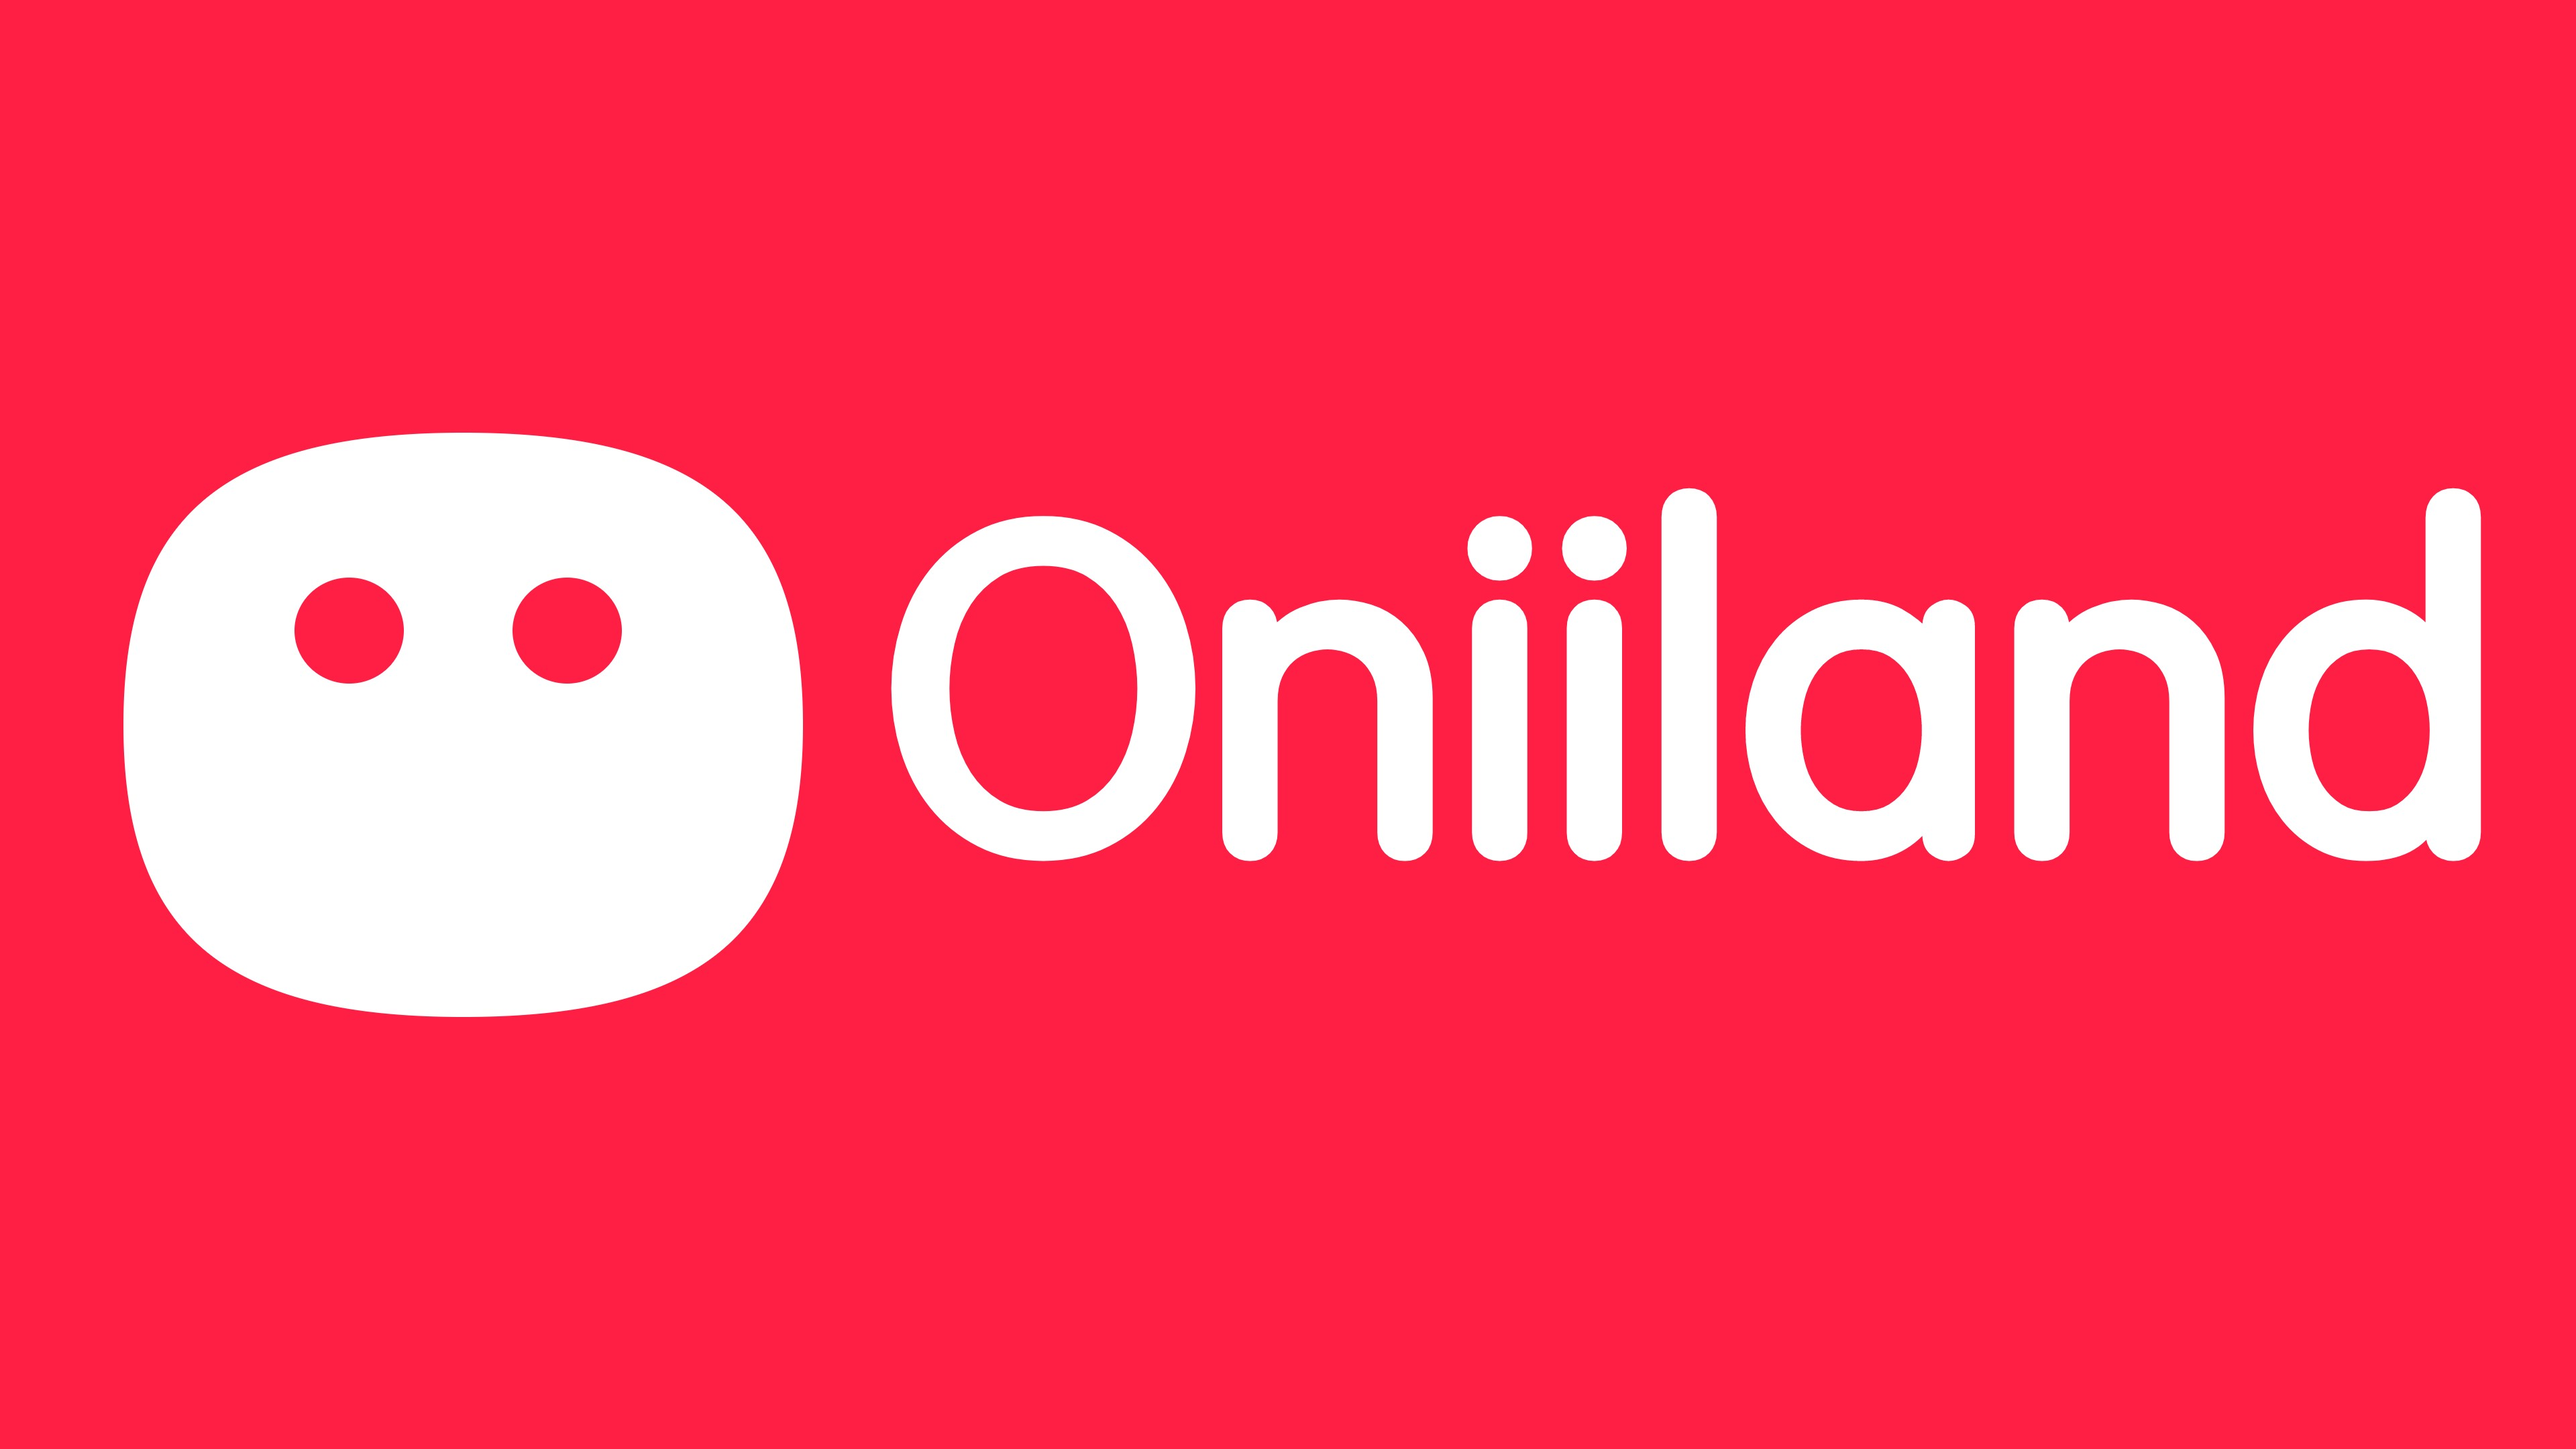
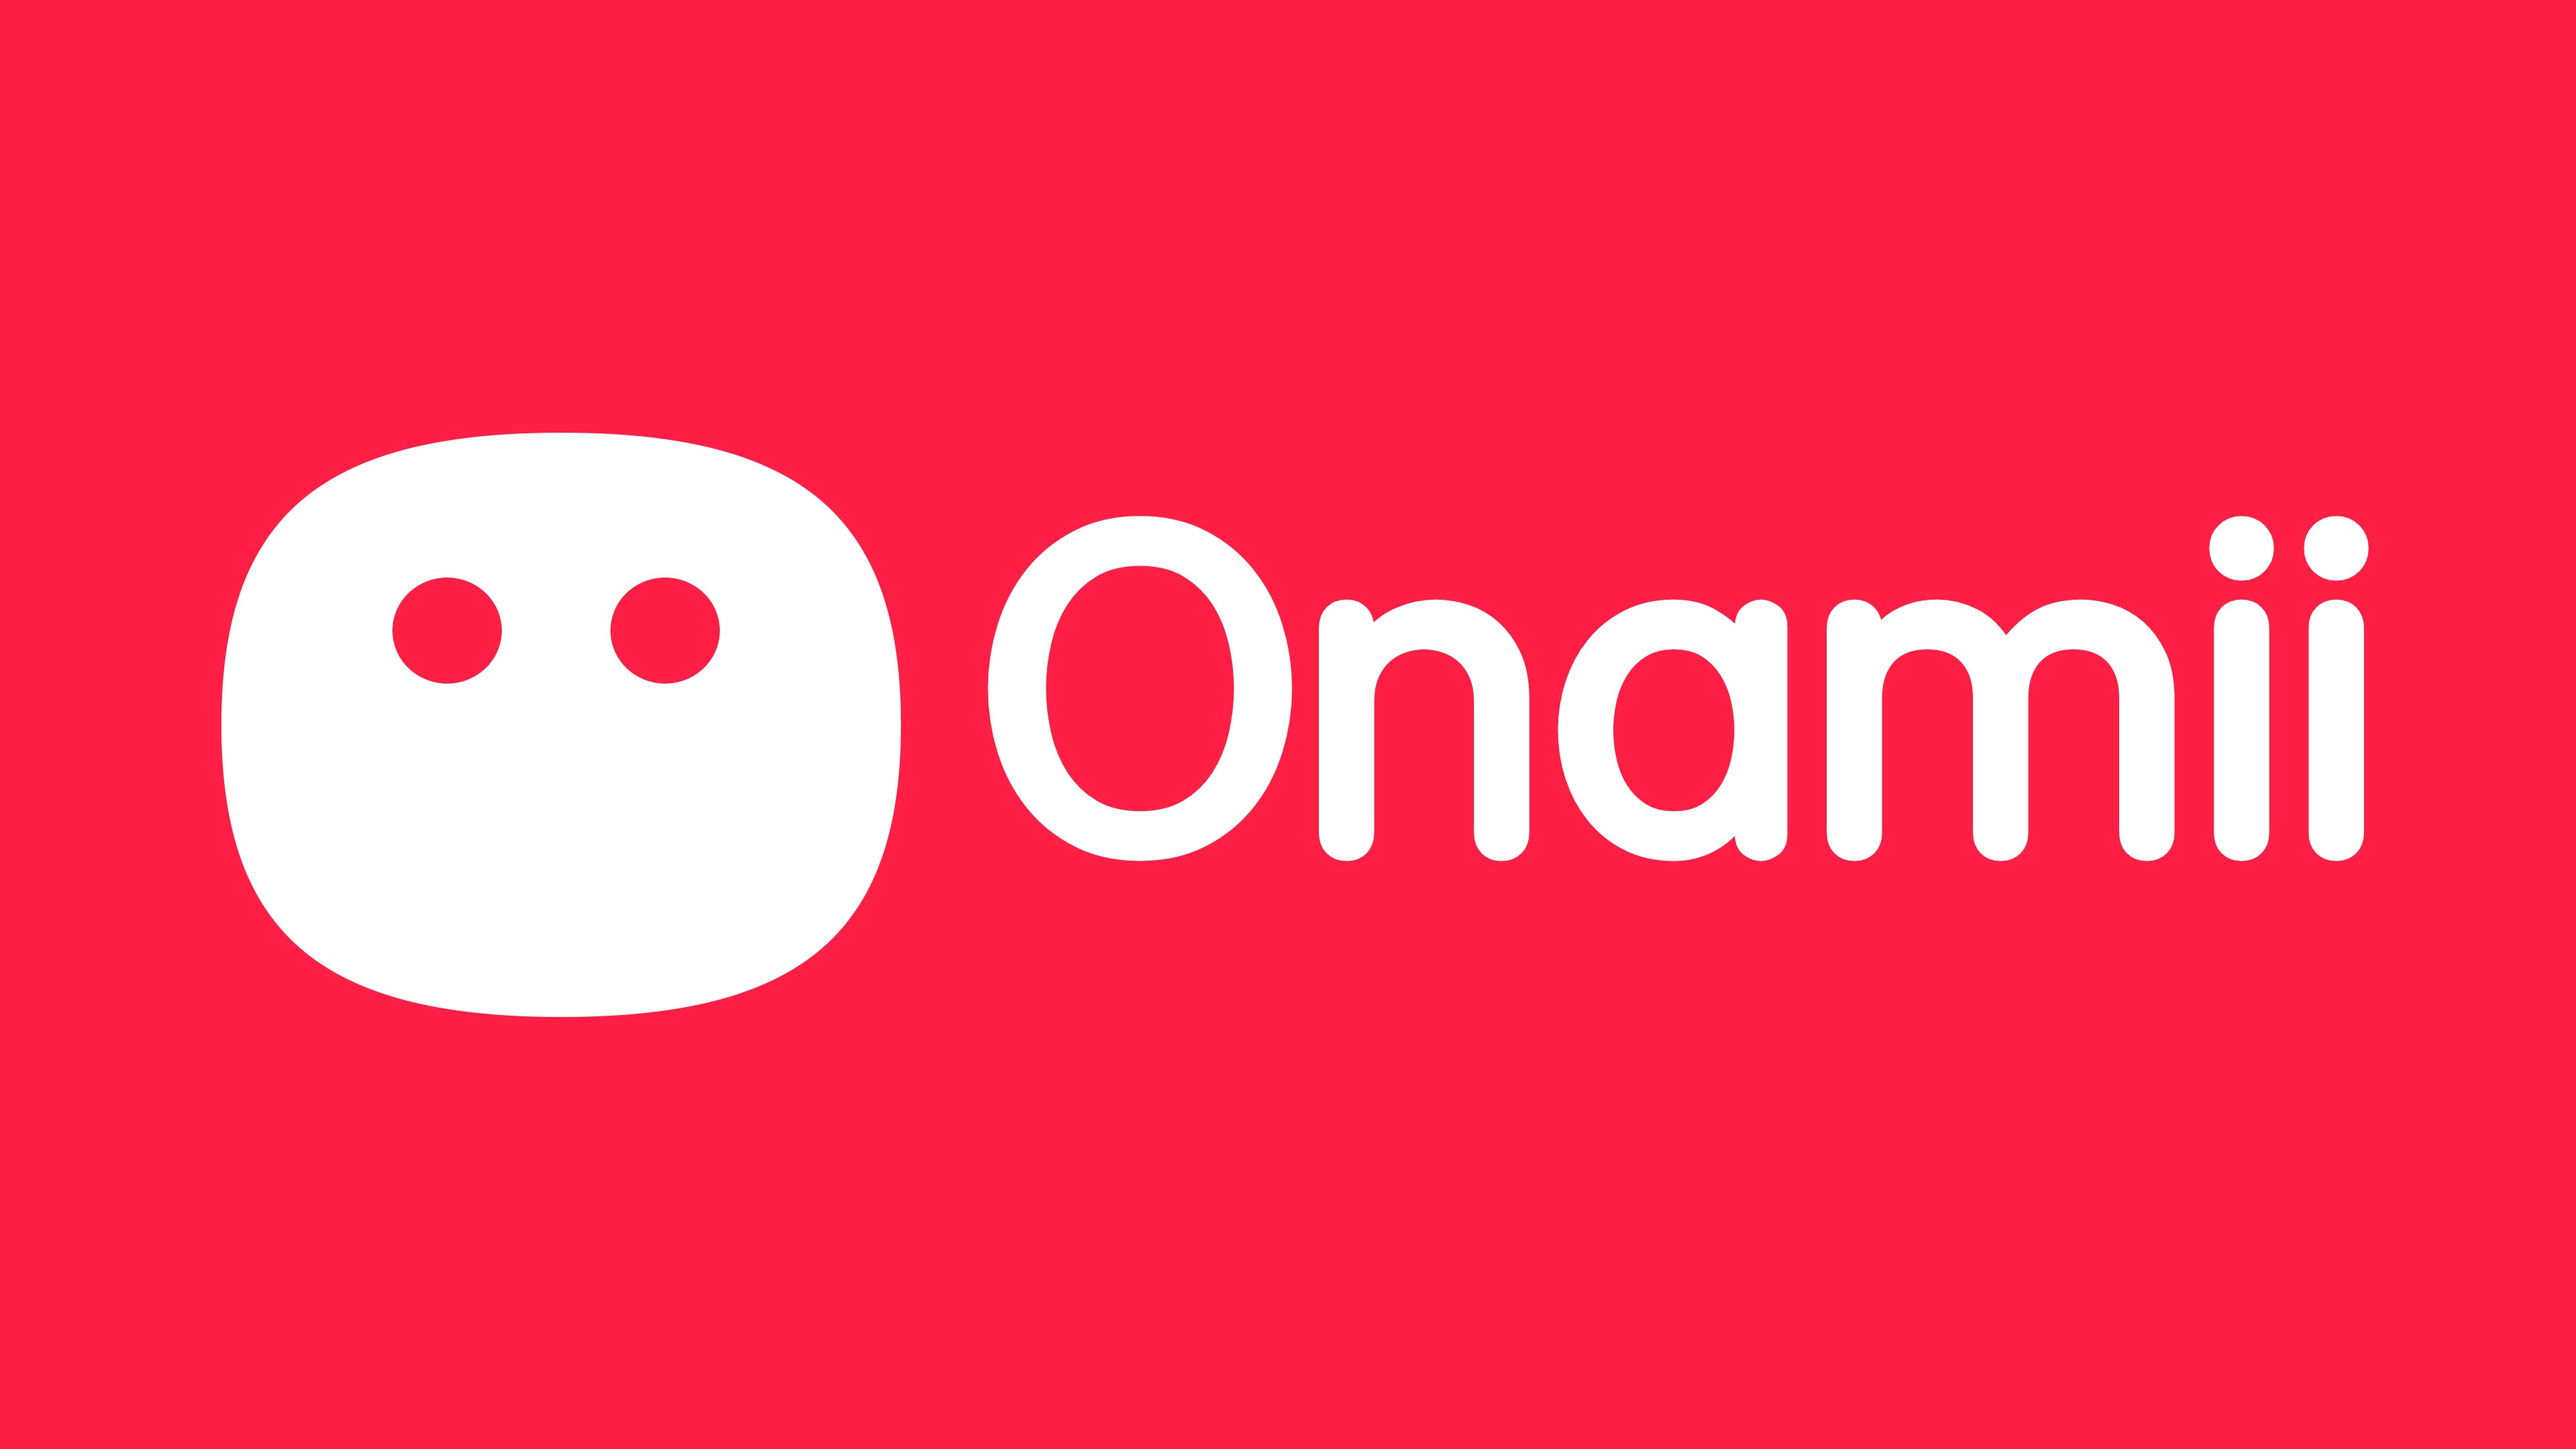
chore: update legal info correctly

Changed region(s): [[0.0312, 0.2792, 0.9688, 0.7134]]

diff --git a/warehouse/db/database.py b/warehouse/db/database.py
@@ -15,7 +15,7 @@
 # The Original Code is plufify.
 #
 # The Original Developer is the Initial Developer.  The Initial Developer of
-# the Original Code is Plufify.
+# the Original Code is Onamii.
 #
 # All portions of the code written by plufify are Copyright (c) 2021-2022 plufify
 # Inc. All Rights Reserved.

diff --git a/warehouse/db/id_generation.py b/warehouse/db/id_generation.py
@@ -15,7 +15,7 @@
 # The Original Code is plufify.
 #
 # The Original Developer is the Initial Developer.  The Initial Developer of
-# the Original Code is Plufify.
+# the Original Code is Onamii.
 #
 # All portions of the code written by plufify are Copyright (c) 2021-2022 plufify
 # Inc. All Rights Reserved.

diff --git a/warehouse/db/messages.py b/warehouse/db/messages.py
@@ -15,7 +15,7 @@
 # The Original Code is plufify.
 #
 # The Original Developer is the Initial Developer.  The Initial Developer of
-# the Original Code is Plufify.
+# the Original Code is Onamii.
 #
 # All portions of the code written by plufify are Copyright (c) 2021-2022 plufify
 # Inc. All Rights Reserved.

diff --git a/warehouse/db/models/etc.py b/warehouse/db/models/etc.py
@@ -15,7 +15,7 @@
 # The Original Code is plufify.
 #
 # The Original Developer is the Initial Developer.  The Initial Developer of
-# the Original Code is Plufify.
+# the Original Code is Onamii.
 #
 # All portions of the code written by plufify are Copyright (c) 2021-2022 plufify
 # Inc. All Rights Reserved.

diff --git a/warehouse/db/models/guilds.py b/warehouse/db/models/guilds.py
@@ -15,7 +15,7 @@
 # The Original Code is plufify.
 #
 # The Original Developer is the Initial Developer.  The Initial Developer of
-# the Original Code is Plufify.
+# the Original Code is Onamii.
 #
 # All portions of the code written by plufify are Copyright (c) 2021-2022 plufify
 # Inc. All Rights Reserved.

diff --git a/warehouse/db/models/users.py b/warehouse/db/models/users.py
@@ -15,7 +15,7 @@
 # The Original Code is plufify.
 #
 # The Original Developer is the Initial Developer.  The Initial Developer of
-# the Original Code is Plufify.
+# the Original Code is Onamii.
 #
 # All portions of the code written by plufify are Copyright (c) 2021-2022 plufify
 # Inc. All Rights Reserved.

diff --git a/warehouse/db/utils.py b/warehouse/db/utils.py
@@ -15,7 +15,7 @@
 # The Original Code is plufify.
 #
 # The Original Developer is the Initial Developer.  The Initial Developer of
-# the Original Code is Plufify.
+# the Original Code is Onamii.
 #
 # All portions of the code written by plufify are Copyright (c) 2021-2022 plufify
 # Inc. All Rights Reserved.

diff --git a/warehouse/launch.py b/warehouse/launch.py
@@ -15,7 +15,7 @@
 # The Original Code is plufify.
 #
 # The Original Developer is the Initial Developer.  The Initial Developer of
-# the Original Code is Plufify.
+# the Original Code is Onamii.
 #
 # All portions of the code written by plufify are Copyright (c) 2021-2022 plufify
 # Inc. All Rights Reserved.

diff --git a/warehouse/lib/errors.py b/warehouse/lib/errors.py
@@ -15,7 +15,7 @@
 # The Original Code is plufify.
 #
 # The Original Developer is the Initial Developer.  The Initial Developer of
-# the Original Code is Plufify.
+# the Original Code is Onamii.
 #
 # All portions of the code written by plufify are Copyright (c) 2021-2022 plufify
 # Inc. All Rights Reserved.

diff --git a/warehouse/lib/guilds/routes.py b/warehouse/lib/guilds/routes.py
@@ -15,7 +15,7 @@
 # The Original Code is plufify.
 #
 # The Original Developer is the Initial Developer.  The Initial Developer of
-# the Original Code is Plufify.
+# the Original Code is Onamii.
 #
 # All portions of the code written by plufify are Copyright (c) 2021-2022 plufify
 # Inc. All Rights Reserved.

diff --git a/warehouse/lib/payloads/guilds.py b/warehouse/lib/payloads/guilds.py
@@ -15,7 +15,7 @@
 # The Original Code is plufify.
 #
 # The Original Developer is the Initial Developer.  The Initial Developer of
-# the Original Code is Plufify.
+# the Original Code is Onamii.
 #
 # All portions of the code written by plufify are Copyright (c) 2021-2022 plufify
 # Inc. All Rights Reserved.

diff --git a/warehouse/lib/payloads/users.py b/warehouse/lib/payloads/users.py
@@ -15,7 +15,7 @@
 # The Original Code is plufify.
 #
 # The Original Developer is the Initial Developer.  The Initial Developer of
-# the Original Code is Plufify.
+# the Original Code is Onamii.
 #
 # All portions of the code written by plufify are Copyright (c) 2021-2022 plufify
 # Inc. All Rights Reserved.
